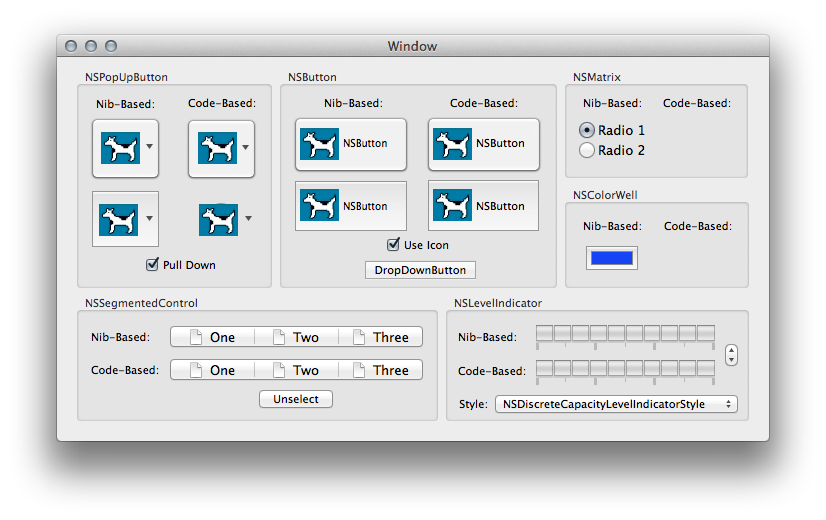
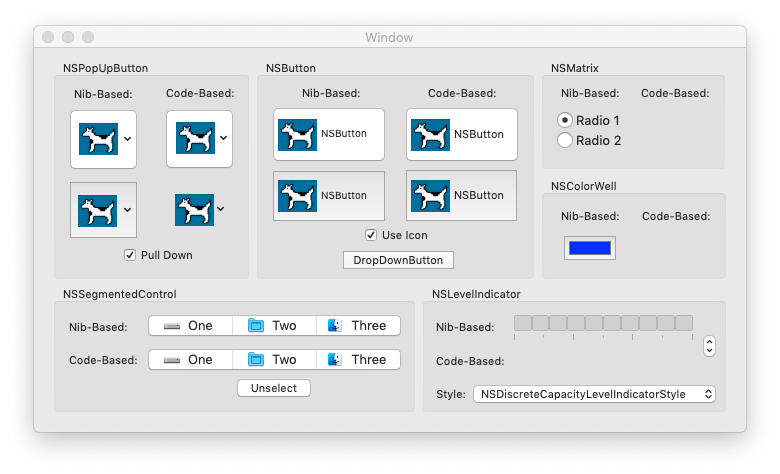
Use new HFSTypeCode enum and IconForFileType overload (#120)
* Use new HFSTypeCode enum and IconForFileType overload

* Add files via upload

Changed region(s): [[0.0308, 0.0591, 0.9538, 0.9156], [0.5231, 0.1772, 0.6462, 0.2068]]

diff --git a/ButtonMadness/TestWindowController.cs b/ButtonMadness/TestWindowController.cs
@@ -1,4 +1,3 @@
-
 using System;
 using CoreGraphics;
 using System.Collections.Generic;
@@ -157,19 +156,19 @@ namespace SamplesButtonMadness
 			// use a menu to the first segment (applied to both nib-based and code-based)
 			codeBasedSegmentControl.SetMenu (buttonMenu, 0);
 			nibBasedSegControl.SetMenu (buttonMenu, 0);
-			
-			// add icons to each segment (applied to both nib-based and code-based)
-			NSImage segmentIcon1 = NSWorkspace.SharedWorkspace.IconForFileType(NSFileTypeForHFSTypeCode.ComputerIcon);
+
+            // add icons to each segment (applied to both nib-based and code-based)
+            NSImage segmentIcon1 = NSWorkspace.SharedWorkspace.IconForFileType(HFSTypeCode.ComputerIcon);
 			segmentIcon1.Size = new CGSize(16, 16);
 			nibBasedSegControl.SetImage (segmentIcon1, 0);
 			codeBasedSegmentControl.SetImage (segmentIcon1, 0);
 			
-			NSImage segmentIcon2 = NSWorkspace.SharedWorkspace.IconForFileType (NSFileTypeForHFSTypeCode.DesktopIcon);
+			NSImage segmentIcon2 = NSWorkspace.SharedWorkspace.IconForFileType (HFSTypeCode.DesktopIcon);
 			segmentIcon2.Size = new CGSize (16, 16);
 			nibBasedSegControl.SetImage (segmentIcon2, 1);
 			codeBasedSegmentControl.SetImage (segmentIcon2, 1);
 			
-			NSImage segmentIcon3 = NSWorkspace.SharedWorkspace.IconForFileType (NSFileTypeForHFSTypeCode.FinderIcon);
+			NSImage segmentIcon3 = NSWorkspace.SharedWorkspace.IconForFileType (HFSTypeCode.FinderIcon);
 			segmentIcon3.Size = new CGSize (16, 16);
 			nibBasedSegControl.SetImage (segmentIcon3, 2);
 			codeBasedSegmentControl.SetImage (segmentIcon3, 2);
@@ -240,4 +239,3 @@ namespace SamplesButtonMadness
 		#endregion
 	}
 }
-
